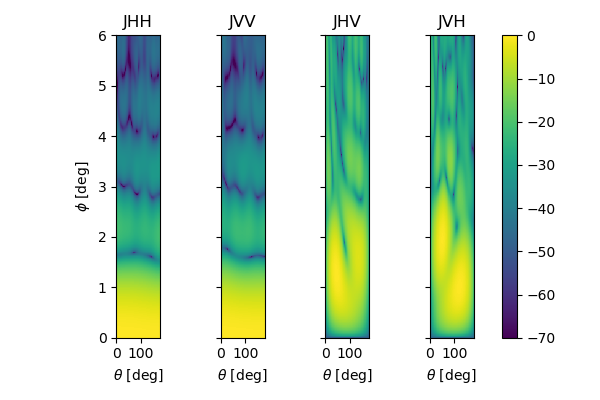
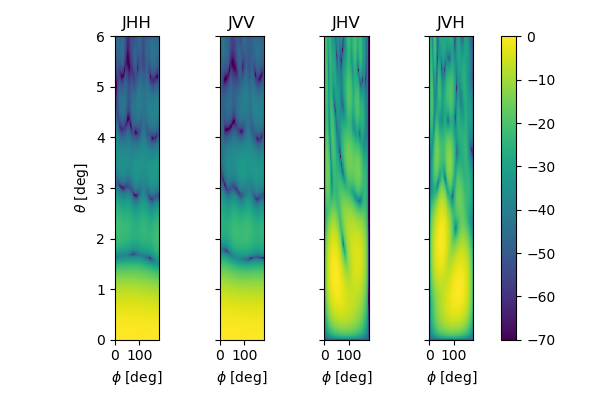
Swap axes labels

diff --git a/beam_models/EMSS/load_emss.py b/beam_models/EMSS/load_emss.py
@@ -53,7 +53,6 @@ poldict =    {
     
     
 polarr = np.dstack((JHH, JVV,JHV,JVH))
-    
 
 pols = ["JHH","JVV","JHV", "JVH"]
 
@@ -87,9 +86,9 @@ for count, ax in enumerate(axes.flat):
     polarrabs[:,:,count] = 10*np.log((polarrabs[:,:,count])/np.max(polarrabs[:,:,count])) # pow
     im = ax.imshow((polarrabs[:,:,count]), vmin = -70, vmax = 0, origin = 'lower', extent = [0,180, 0, 6], aspect = (30*501)/73)
     #if (count==2) or (count==3):
-    ax.set_xlabel(r'$\theta$ [deg]')
+    ax.set_xlabel(r'$\phi$ [deg]')
     if (count==0):# or (count==2):
-        ax.set_ylabel(r'$\phi$ [deg]')
+        ax.set_ylabel(r'$\theta$ [deg]')
     ax.set_title(pols[count])    
 
 plt.tight_layout()
@@ -104,9 +103,9 @@ for count, ax in enumerate(axes.flat):
     # db = 10*np.log((amp_azel)/np.max(amp_azel)) # power dB not field
     im = ax.imshow(np.angle(polarr[:,:,count]), vmin = -np.pi, vmax = np.pi, origin = 'lower', extent = [0,180, 0, 6], aspect = (30*501)/73)
     #if (count==2) or (count==3):
-    ax.set_xlabel(r'$\theta$ [deg]')
+    ax.set_xlabel(r'$\phi$ [deg]')
     if (count==0):# or (count==2):
-        ax.set_ylabel(r'$\phi$ [deg]')
+        ax.set_ylabel(r'$\theta$ [deg]')
     ax.set_title(pols[count])    
 
 plt.tight_layout()
